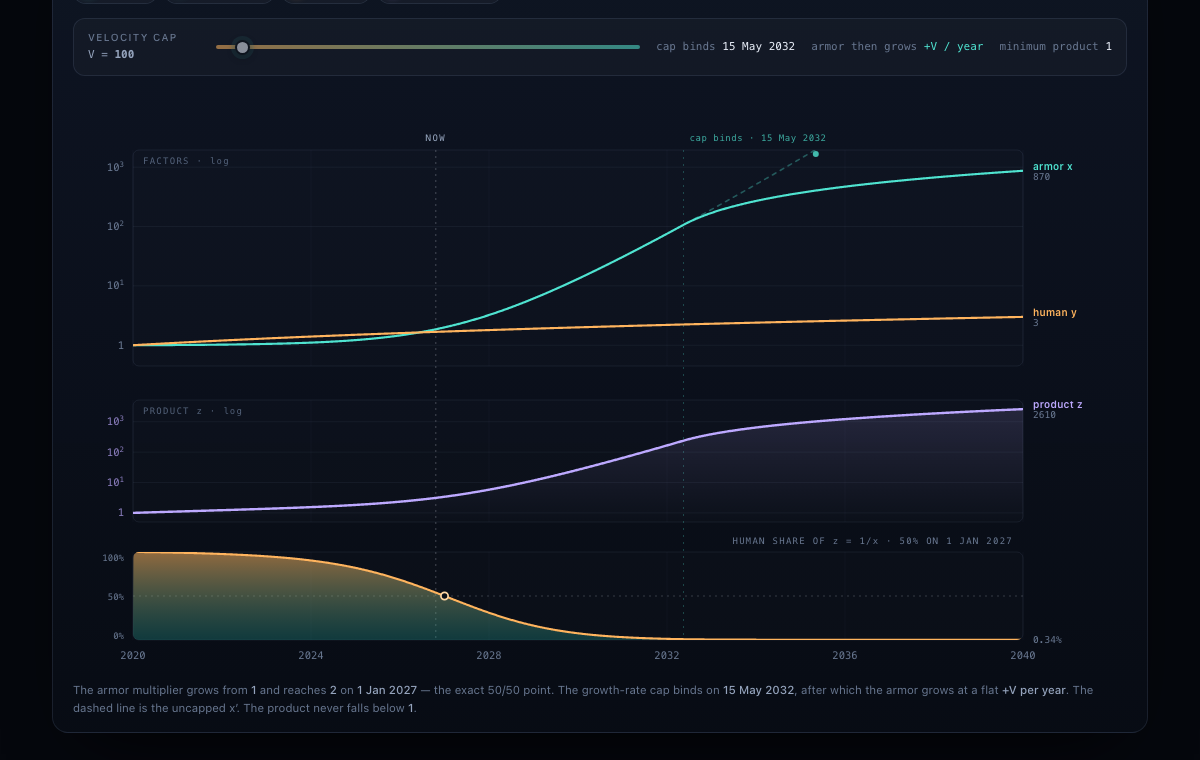
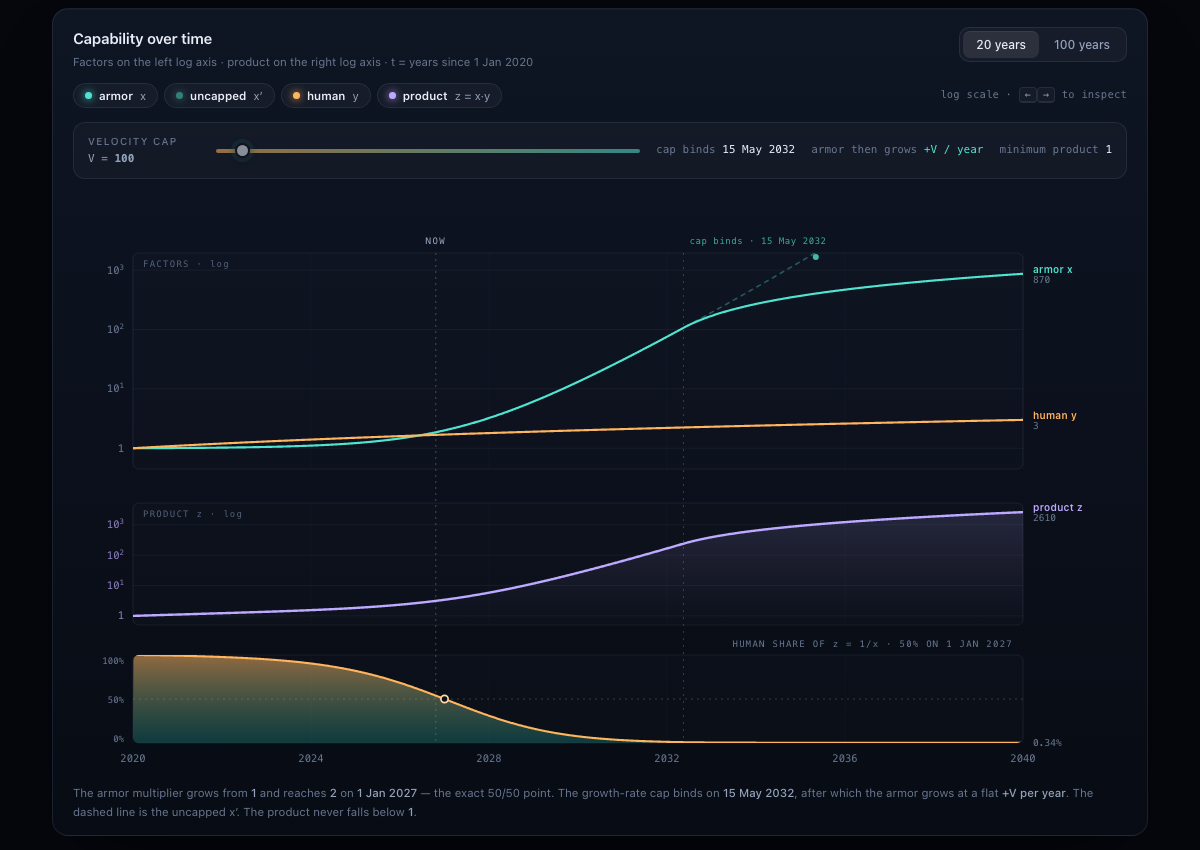
fix empty right column: add landmark rail to the hero
The hero prose was capped at 68ch inside a 1096px column, leaving ~430px
of dead space on the right at desktop widths.

- split the hero into a two-column grid: copy on the left, a new "At a
  glance" rail on the right
- rail shows five live landmarks: human share now, 50/50 crossover,
  armor reaching 90%, growth cap binding, and share in 2040
- values are computed from the model, so they update with the velocity
  cap slider rather than being hardcoded
- rail stacks under the copy below 980px
- widen closing prose from 78ch to 82ch

Also recapture assets/hero.png and assets/chart.png, which still showed
the old dashed project name.

Verified: z >= 1 across V in {10, 100, 2000}; rail reads 54% now,
1 Jan 2027 crossover, 15 May 2032 cap; no visible dashed name; no
console errors or horizontal overflow at 1440/1280/500px.

diff --git a/index.html b/index.html
@@ -40,6 +40,16 @@
   h1{margin:0;font-size:clamp(30px,4.6vw,47px);line-height:1.04;letter-spacing:-.032em;font-weight:660}
   h1 .hl{background:linear-gradient(94deg,var(--cloak) 0%,#9ef0e6 42%,var(--total) 100%);-webkit-background-clip:text;background-clip:text;color:transparent}
   .lede{margin:16px 0 0;max-width:68ch;color:var(--muted);font-size:clamp(13.5px,1.5vw,15.5px)}
+  .hero-grid{display:grid;grid-template-columns:minmax(0,1.65fr) minmax(228px,.85fr);gap:clamp(22px,3.2vw,44px);align-items:start;margin-top:16px}
+  .hero-copy .lede{margin-top:0;margin-bottom:16px;max-width:none}
+  .hero-copy .lede:last-child{margin-bottom:0}
+  .hero-rail{border:1px solid var(--line);border-radius:13px;padding:15px 16px 8px;background:linear-gradient(180deg,rgba(255,255,255,.028),rgba(255,255,255,.008));margin-top:2px}
+  .rail-lab{font-family:var(--mono);font-size:9.5px;letter-spacing:.15em;text-transform:uppercase;color:var(--faint);margin-bottom:10px}
+  .rail-item{display:flex;align-items:baseline;justify-content:space-between;gap:14px;padding:8.5px 0;border-top:1px solid var(--line-soft)}
+  .rail-item:first-of-type{border-top:0;padding-top:2px}
+  .rail-k{font-size:11.5px;color:var(--muted);line-height:1.35}
+  .rail-v{font-family:var(--mono);font-size:11.5px;color:var(--text);white-space:nowrap}
+  @media (max-width:980px){.hero-grid{grid-template-columns:1fr}.hero-rail{max-width:none}}
   .lede b{color:var(--text);font-weight:520}
   .intent{margin-top:20px;border:1px solid var(--line);border-left:2px solid var(--total);border-radius:10px;padding:15px 17px 14px;background:linear-gradient(180deg,rgba(189,169,255,.055),rgba(189,169,255,.012))}
   .intent-lab{font-family:var(--mono);font-size:9.5px;letter-spacing:.15em;text-transform:uppercase;color:var(--total);margin-bottom:8px}
@@ -209,7 +219,7 @@
   tbody tr:hover td{background:rgba(255,255,255,.022);color:var(--text)}
   td sup{font-size:.72em}
 
-  .close-body{max-width:78ch}
+  .close-body{max-width:82ch}
   .close-body p{margin:0 0 16px;font-size:13.5px;line-height:1.75;color:var(--muted)}
   .close-body p b{color:var(--text);font-weight:520}
   .close-body code{font-family:var(--mono);font-size:11.5px;color:var(--text);background:rgba(255,255,255,.05);border-radius:4px;padding:1px 5px}
@@ -259,24 +269,52 @@
     <div class="kicker">The AI Armor · t = now − 2020</div>
     <h1>The tool stops needing <span class="hl">the hand.</span></h1>
 
-    <p class="lede">
-      A hammer cannot drive a nail by itself. Its output is bounded by the arm that swings it, so the person stays
-      the deciding term. <b>The AI armor is not a hammer.</b> It is a layer that multiplies what a person can do —
-      and the multiplier grows on its own.
-    </p>
+    <div class="hero-grid">
+      <div class="hero-copy">
+        <p class="lede">
+          A hammer cannot drive a nail by itself. Its output is bounded by the arm that swings it, so the person stays
+          the deciding term. <b>The AI armor is not a hammer.</b> It is a layer that multiplies what a person can do —
+          and the multiplier grows on its own.
+        </p>
 
-    <p class="lede">
-      That single difference changes the arithmetic. Once the armor can prompt itself, it no longer depends on how
-      skilled its user is. Knowledge of the tool stops being an advantage: the user only has to be able to state what
-      they want. The armor supplies the rest. And because it supplies the rest, the share of the result that is
-      <em>you</em> keeps shrinking — even while the total keeps rising.
-    </p>
+        <p class="lede">
+          That single difference changes the arithmetic. Once the armor can prompt itself, it no longer depends on how
+          skilled its user is. Knowledge of the tool stops being an advantage: the user only has to be able to state
+          what they want. The armor supplies the rest. And because it supplies the rest, the share of the result that
+          is <em>you</em> keeps shrinking — even while the total keeps rising.
+        </p>
 
-    <p class="lede">
-      <b>This is what suppression looks like:</b> not a loss of ability, but a loss of proportion. The person keeps
-      improving. The armor improves far faster. On <b>1 January 2027</b> the two cross, and after that the human
-      contribution is a rounding error inside a result the armor is mostly responsible for.
-    </p>
+        <p class="lede">
+          <b>This is what suppression looks like:</b> not a loss of ability, but a loss of proportion. The person keeps
+          improving. The armor improves far faster. On <b>1 January 2027</b> the two cross, and after that the human
+          contribution is a rounding error inside a result the armor is mostly responsible for.
+        </p>
+      </div>
+
+      <aside class="hero-rail" aria-label="Key landmarks">
+        <div class="rail-lab">At a glance</div>
+        <div class="rail-item">
+          <span class="rail-k">Human share now</span>
+          <span class="rail-v" id="railNow">—</span>
+        </div>
+        <div class="rail-item">
+          <span class="rail-k">50 / 50 crossover</span>
+          <span class="rail-v" id="railCross">—</span>
+        </div>
+        <div class="rail-item">
+          <span class="rail-k">Armor takes 90%</span>
+          <span class="rail-v" id="rail90">—</span>
+        </div>
+        <div class="rail-item">
+          <span class="rail-k">Growth cap binds</span>
+          <span class="rail-v" id="railCap">—</span>
+        </div>
+        <div class="rail-item">
+          <span class="rail-k">Share in 2040</span>
+          <span class="rail-v" id="rail2040">—</span>
+        </div>
+      </aside>
+    </div>
 
     <div class="intent" role="note">
       <div class="intent-lab">Why this page exists</div>
@@ -601,6 +639,16 @@
   /* Because z = x·y, the human base contribution is y and the armor's added
      contribution is (x-1)·y. Human share = y/z = 1/x, exactly. */
   function shareHuman(t){ return 1 / armor(t); }
+  /* first time the human share drops to `target` (share is strictly decreasing) */
+  function tAtShare(target){
+    if (shareHuman(T_MIN) <= target) return T_MIN;
+    var lo = T_MIN, hi = 400;
+    for (var i = 0; i < 200; i++){
+      var mid = (lo + hi) / 2;
+      if (shareHuman(mid) > target) lo = mid; else hi = mid;
+    }
+    return (lo + hi) / 2;
+  }
   function shareArmor(t){ return 1 - 1 / armor(t); }
 
   recalibrate();
@@ -662,7 +710,9 @@
     note:$("#chartNote"), readout:$("#kbdReadout"),
     insights:$("#insights"), dataBody:$("#dataBody"), legend:$("#legend"),
     vRange:$("#vRange"), vLabel:$("#vLabel"), capYear:$("#capYear"),
-    floorPct:$("#floorPct"), heroV:$("#heroV")
+    floorPct:$("#floorPct"), heroV:$("#heroV"),
+    railNow:$("#railNow"), railCross:$("#railCross"), rail90:$("#rail90"),
+    railCap:$("#railCap"), rail2040:$("#rail2040")
   };
 
   var state = { view:"20y", hidden:{}, hover:null, ptr:null, kbd:false };
@@ -1119,6 +1169,16 @@
     el.heroV.textContent = "V = " + V;
     el.capYear.textContent = fmtDate(capT);
     el.floorPct.textContent = H(product(0), 3);
+
+    /* hero landmark rail */
+    if (el.railNow){
+      var tn = Math.max(nowT, 0.02);
+      el.railNow.textContent = pct(1 / armor(tn), 2);
+      el.railCross.textContent = fmtDate(TC);
+      el.rail90.textContent = fmtDate(tAtShare(0.10));
+      el.railCap.textContent = fmtDate(capT);
+      el.rail2040.textContent = pct(1 / armor(20), 2);
+    }
   }
 
   function renderInsights(){
